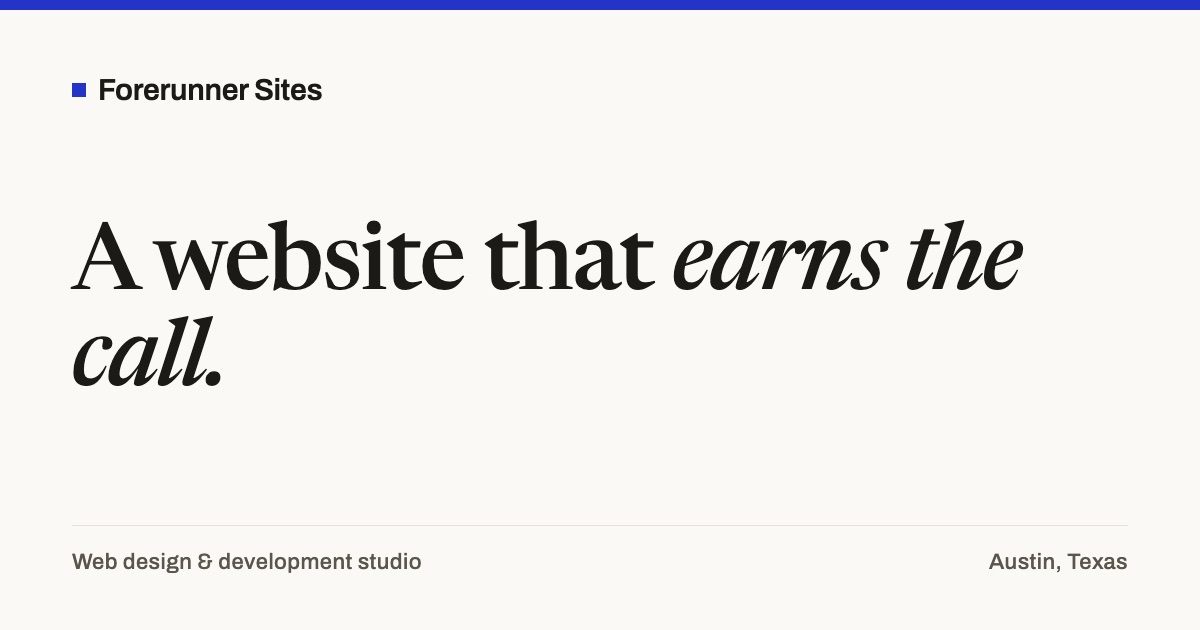
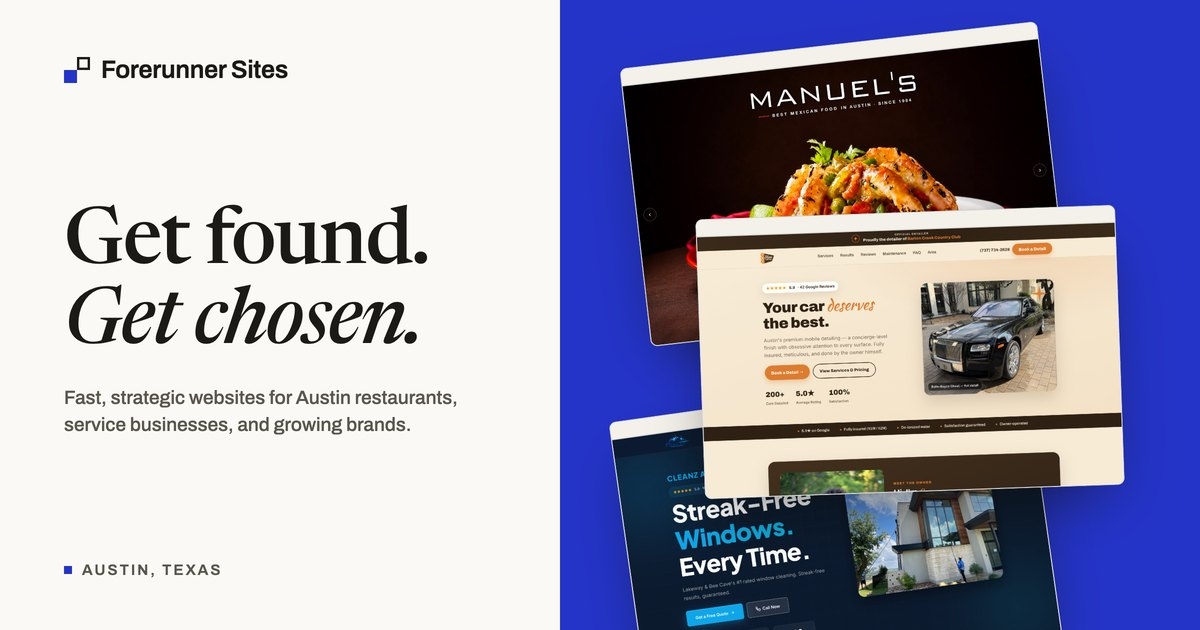
Deepen the About page and rebuild the share card
About now earns the click instead of repeating the homepage: where the
idea came from, the service-industry and sales jobs behind it, the
teaching-kids-Python origin of the technical half, and an honest note
about who this studio is not for. The closing section trades a single
sentence for four concrete commitments — early preview link, scope in
writing, questions answered by the person who wrote the code, and client
ownership of every account. The portrait sticks alongside the prose on
desktop so the column no longer runs empty.

The Open Graph card was still advertising the previous headline. It now
carries "Get found. Get chosen." beside the three real client sites on
the accent field, so a shared link leads with proof of work rather than
a wall of type.

diff --git a/src/app/about/page.tsx b/src/app/about/page.tsx
@@ -47,6 +47,29 @@ const hasPortrait = fs.existsSync(
   path.join(process.cwd(), "public", "about", "portrait.jpg")
 );
 
+const commitments = [
+  {
+    title: "You see it early",
+    detail:
+      "A live preview link goes up in the first week. You watch the site take shape instead of waiting for a reveal at the end.",
+  },
+  {
+    title: "Scope in writing",
+    detail:
+      "Pages, features, timeline, and price agreed before I start. If something new comes up mid-project, you get a number before I build it.",
+  },
+  {
+    title: "Questions go to the builder",
+    detail:
+      "Ask me anything about the site and you get the answer from the person who wrote the code, usually the same day.",
+  },
+  {
+    title: "You own everything",
+    detail:
+      "The domain, the accounts, the code, the analytics. It is your business, so it stays in your name whether or not we work together again.",
+  },
+];
+
 export default function AboutPage() {
   return (
     <>
@@ -63,43 +86,67 @@ export default function AboutPage() {
               />
               <div className="mt-10 max-w-2xl space-y-5 leading-relaxed text-ink-soft" data-reveal>
                 <p>
-                  I grew up around Austin and spent most of my working life
-                  inside the kinds of businesses I now build websites for: a
-                  restaurant kitchen, a country club retail floor, and a desk
-                  where the whole job was explaining complicated things to
-                  people in plain language. I know what a Saturday rush looks
-                  like. I know what it costs when a customer can&apos;t find a
-                  menu, a price, or a way to book.
+                  I started building websites because I kept running into the
+                  same gap. The businesses I worked in and around Austin were
+                  genuinely good — the food, the service, the craftsmanship —
+                  and then you would look them up and find something that made
+                  them seem ordinary. A menu you could not read on a phone. A
+                  quote form nobody answered. A page that took eight seconds to
+                  load. The work deserved better than the website it was hiding
+                  behind.
                 </p>
                 <p>
-                  That is the background I bring to a website. I studied
-                  economics at UT Austin with minors in business and
-                  entrepreneurship, and I started out teaching kids to write
-                  their first lines of Python — which turns out to be good
-                  preparation for this work. Most of it is taking something
-                  technical and making it make sense to the person who has to
-                  live with it.
+                  Most of what I know about customers I learned before I wrote a
+                  line of code for anyone. I have prepped food on a restaurant
+                  line through a Saturday rush. I have detailed cars. I have
+                  worked a country club retail floor and booked tee times. I
+                  have sat at a desk making a hundred and fifty calls a day,
+                  learning how to explain something complicated to someone who
+                  has no patience for jargon. Those jobs taught me what a
+                  business actually needs from its website, which is rarely the
+                  part a designer finds most interesting.
                 </p>
                 <p>
-                  So the specialty here is local and service-based businesses —
-                  restaurants, home services, automotive, professional
-                  practices — where the website has a concrete job. Get found.
-                  Look as good as the work actually is. Turn a visit into a
-                  call, a booking, or a reservation.
+                  The technical half started earlier. One of my first jobs was
+                  teaching kids aged eight to fourteen to write their first
+                  lines of Python. Explaining to a ten-year-old why a loop
+                  works turns out to be good preparation for explaining to a
+                  restaurant owner why their site is slow. I studied economics
+                  at UT Austin with minors in business and entrepreneurship,
+                  which is another way of saying I care more about whether a
+                  website earns its keep than whether other designers admire it.
                 </p>
                 <p>
-                  Every site is designed and hand-built for the business it
-                  serves: attractive, fast, easy to use on a phone, and aligned
-                  with what the business is actually trying to accomplish. And
-                  because one person does the strategy, the design, and the
-                  code, nothing gets lost in a hand-off and nobody has to
-                  translate your goals twice.
+                  So this studio is built for local and service-based businesses
+                  — restaurants, home services, automotive, professional
+                  practices — where a website has a concrete job to do. Get
+                  found by someone searching. Look as good as the work actually
+                  is. Turn a visit into a call, a booking, or a reservation. If
+                  what you need is a brand manifesto or a fifty-page enterprise
+                  platform, I am not your best option, and I will say so on the
+                  first call rather than three weeks in.
+                </p>
+                <p>
+                  Every site is designed and hand-coded for the business it
+                  serves. No page builders, no theme with your logo dropped into
+                  someone else&apos;s layout. Because one person does the
+                  strategy, the design, and the code, nothing gets lost in a
+                  hand-off and you never have to explain your business twice.
+                </p>
+                <p>
+                  And you can reach me. That sounds like a low bar until you
+                  have tried getting a straight answer out of an agency. I
+                  answer my own email, I reply the same day when I can, and
+                  after launch I am still the person who picks up.
                 </p>
               </div>
-            </div>
+              </div>
 
             <div className="lg:col-span-5">
-              <figure data-reveal className="mx-auto max-w-[340px] lg:mx-0">
+              <figure
+                data-reveal
+                className="mx-auto max-w-[340px] lg:sticky lg:top-28 lg:mx-0"
+              >
                 {hasPortrait ? (
                   <div className="overflow-hidden rounded-full border border-line bg-white">
                     <Image
@@ -157,20 +204,24 @@ export default function AboutPage() {
               <Eyebrow>Working together</Eyebrow>
             </div>
             <div className="lg:col-span-9">
-              <p
+              <h2
                 id="working-heading"
-                className="max-w-3xl font-display text-[clamp(1.5rem,1.1rem+1.6vw,2.25rem)] leading-[1.3]"
+                className="max-w-3xl font-display text-[clamp(1.5rem,1.1rem+1.6vw,2.25rem)] leading-[1.3] text-balance"
               >
                 Expect straight answers, visible progress, and a site you
                 understand when it launches — not a black box with an invoice
                 attached.
-              </p>
-              <p className="mt-6 max-w-2xl leading-relaxed text-ink-soft" data-reveal>
-                Projects run on a live preview link from the first week, so you
-                watch the site take shape instead of waiting for a big reveal.
-                Questions get answered by the person who knows the answer,
-                because that&apos;s who you&apos;re already talking to.
-              </p>
+              </h2>
+              <div className="mt-8 grid gap-x-12 sm:grid-cols-2" data-reveal>
+                {commitments.map((item) => (
+                  <div key={item.title} className="border-t border-line py-5">
+                    <h3 className="text-[15px] font-medium text-ink">{item.title}</h3>
+                    <p className="mt-1.5 text-sm leading-relaxed text-ink-soft">
+                      {item.detail}
+                    </p>
+                  </div>
+                ))}
+              </div>
             </div>
           </div>
         </Container>
